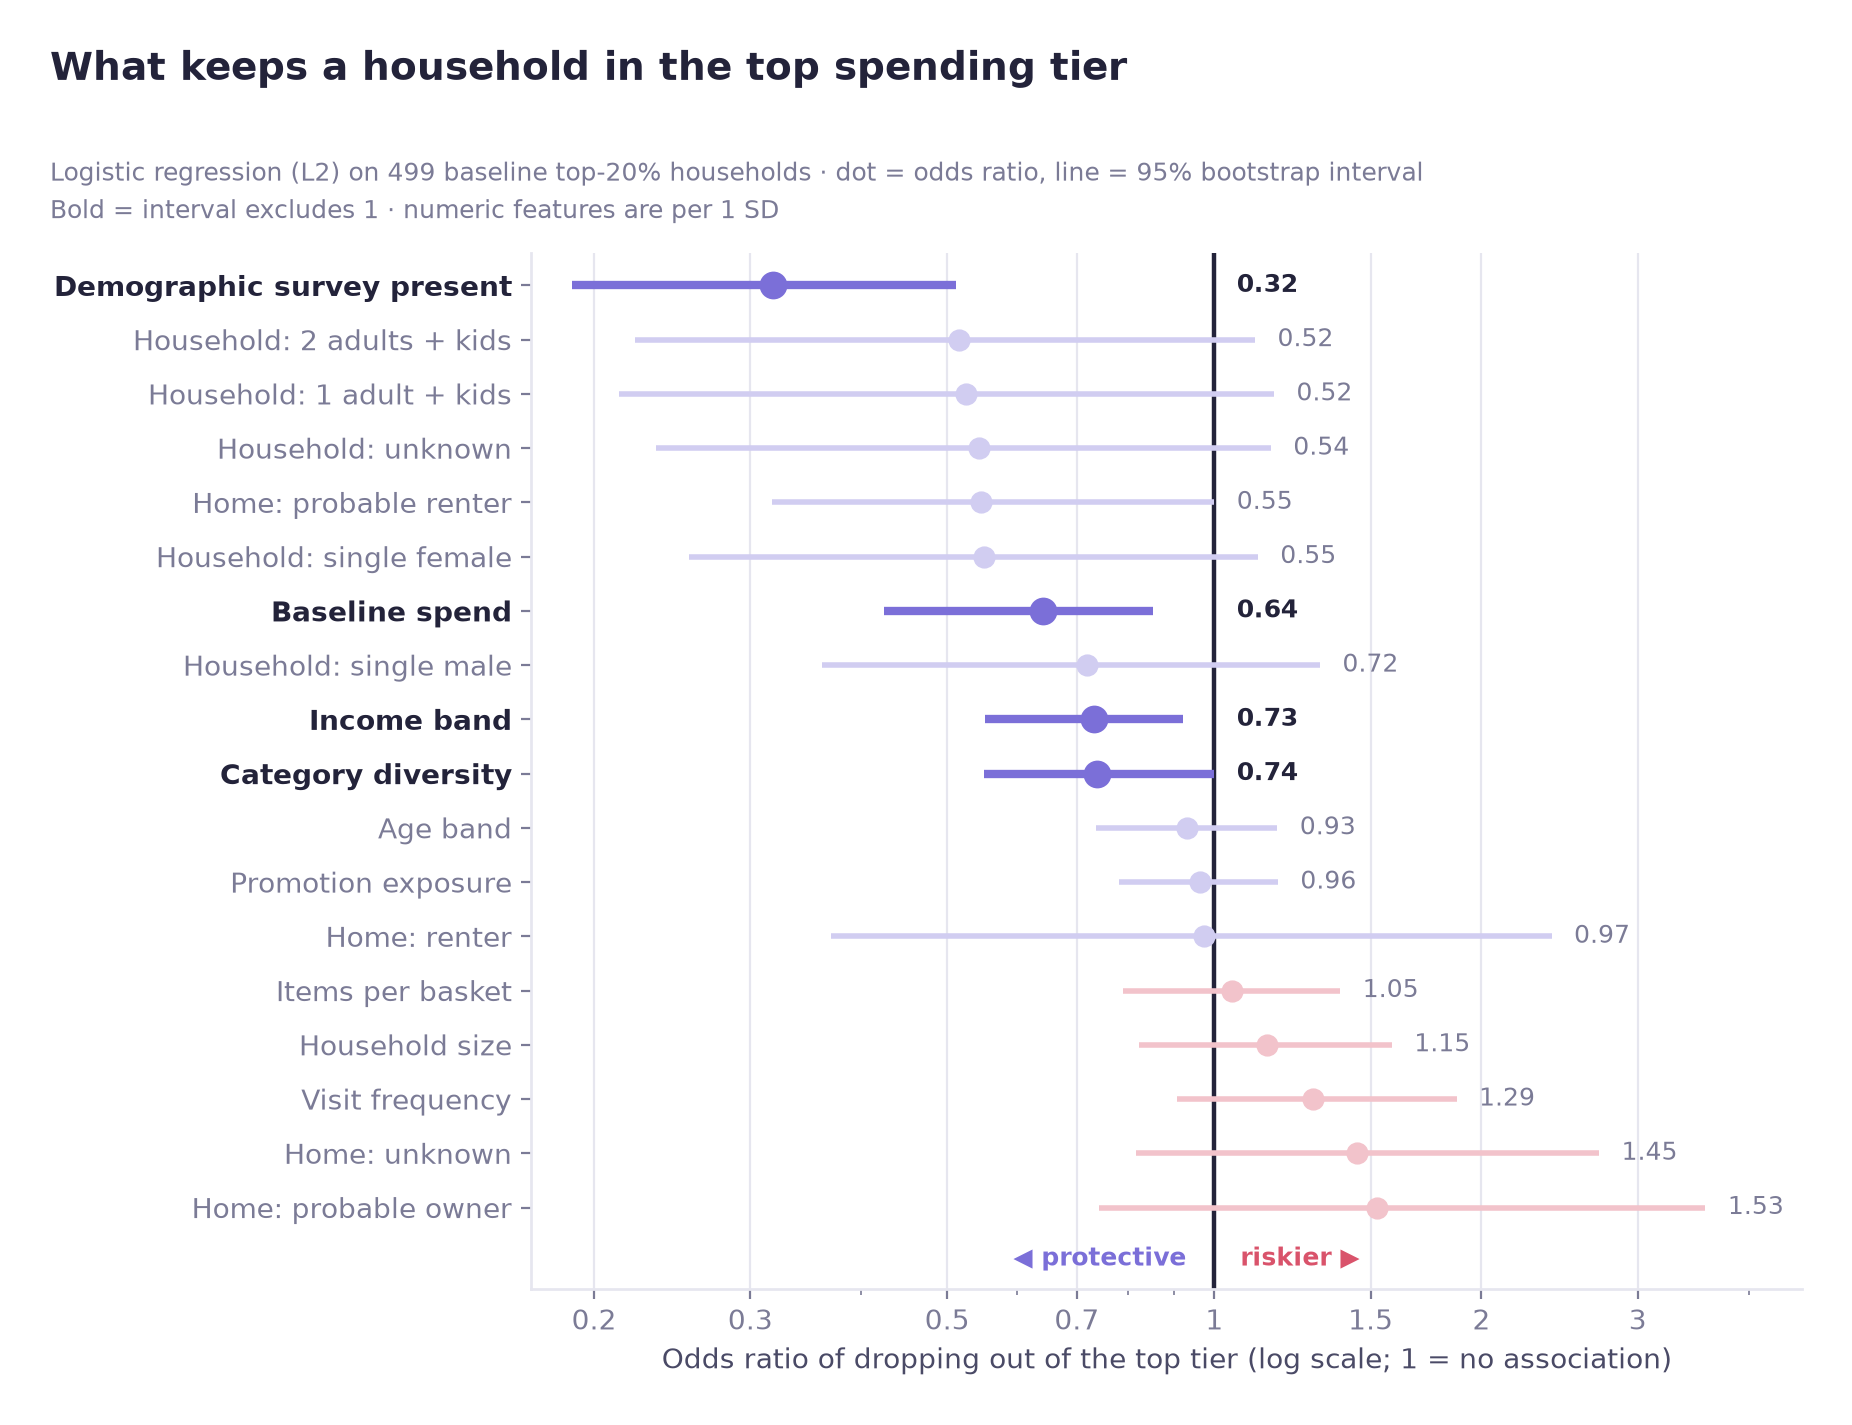
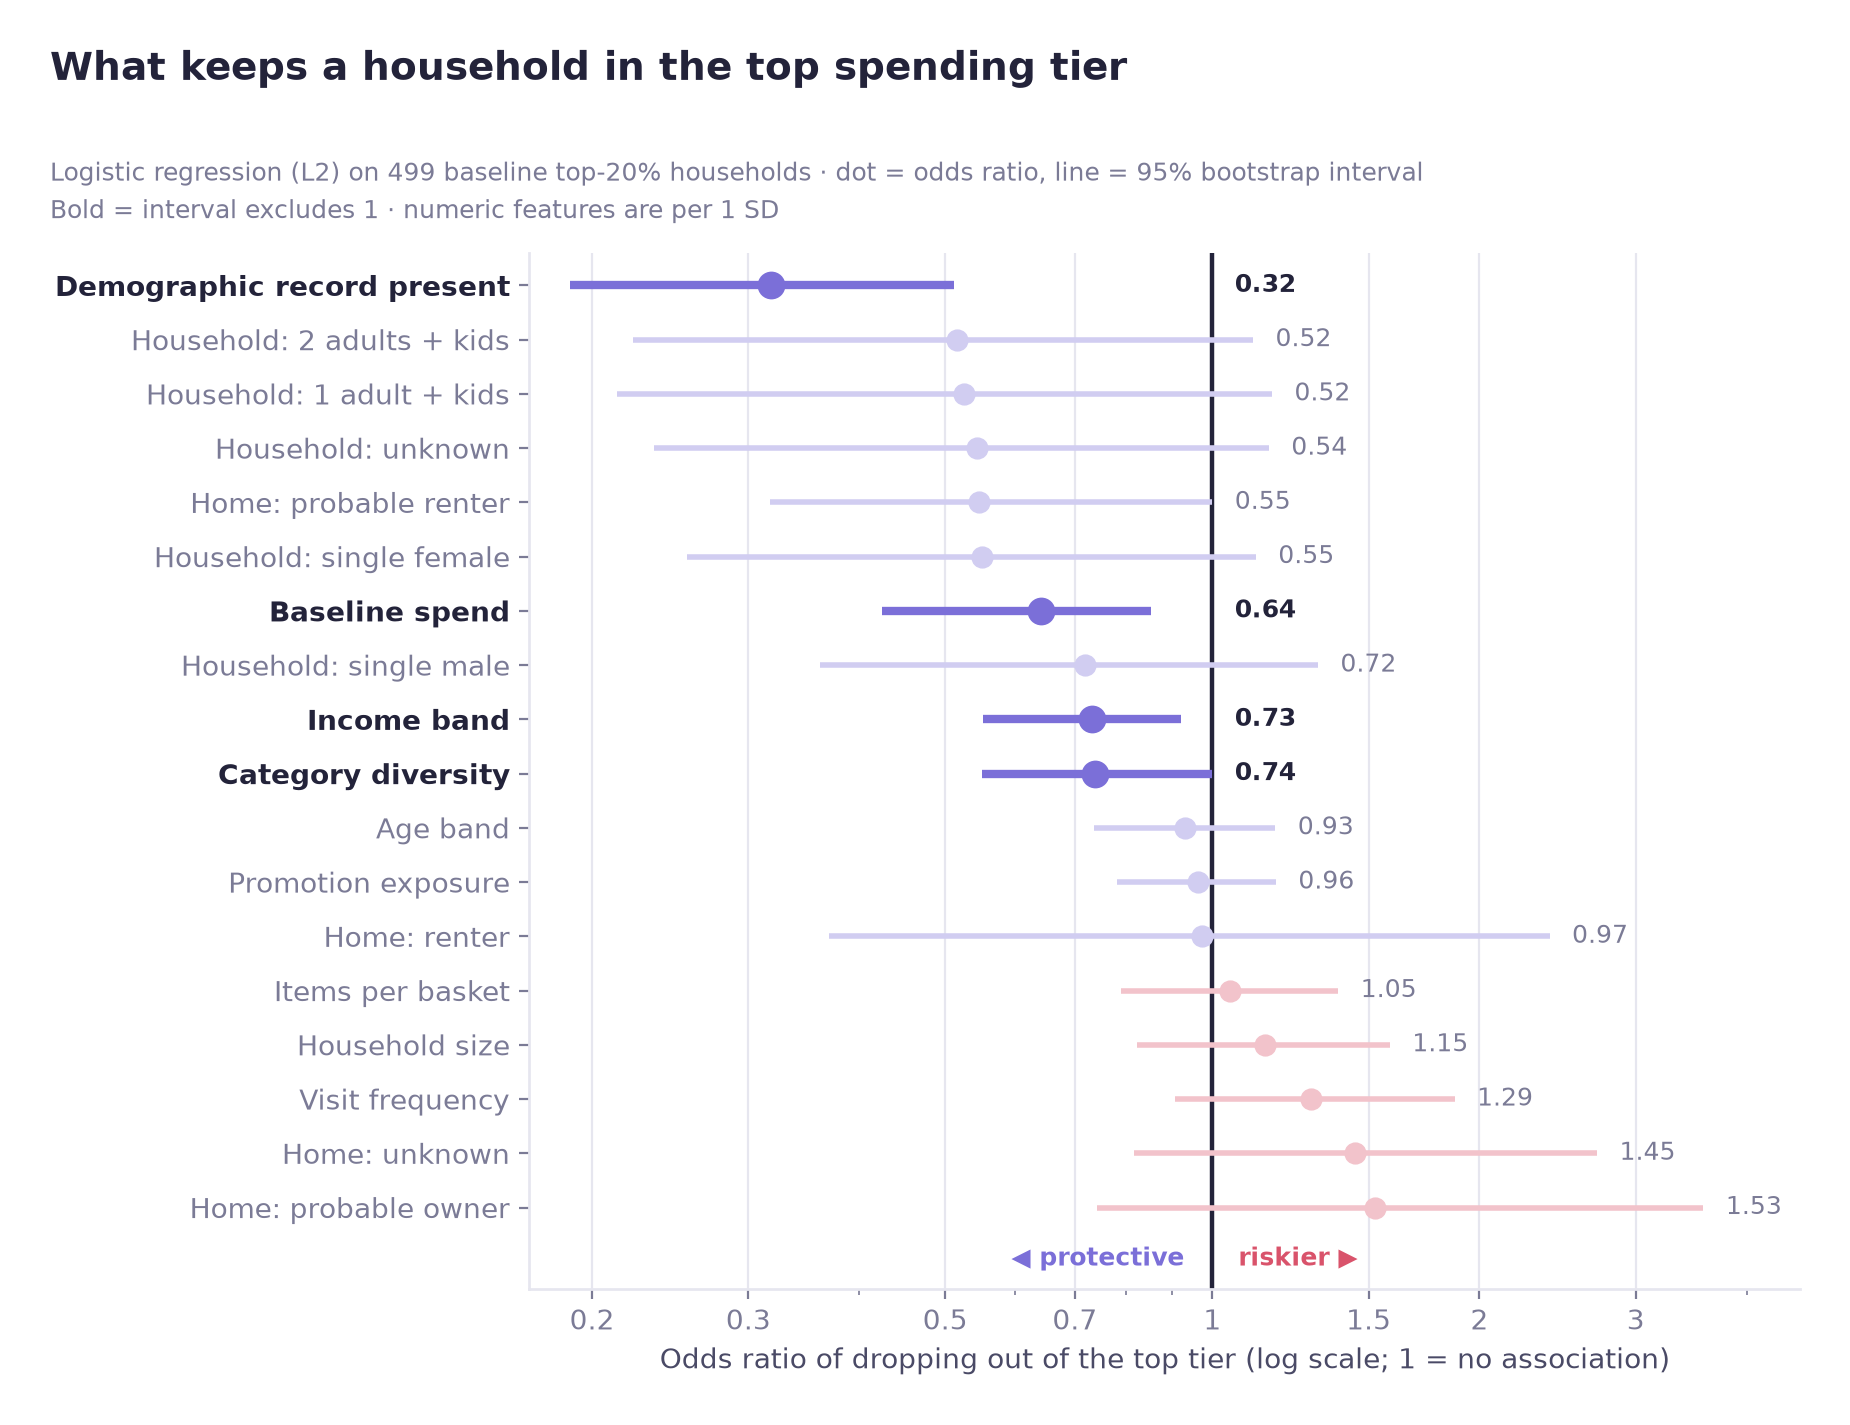
Align the Seoul and Case 1 pages with the has_demo definition and the corrected wording

diff --git a/projects/dunnhumby-customer/case1/index.html b/projects/dunnhumby-customer/case1/index.html
@@ -267,7 +267,7 @@
       </tbody>
     </table>
     </div>
-    <p class="small" style="margin-top:14px">Three related household-level tests (A–C) mean a <strong>Bonferroni correction</strong>: α = 0.05 / 3 ≈ 0.0167. All three clear that threshold, not the uncorrected 0.05. The existing-versus-new comparison in section 05-C is judged against a stricter threshold of α = 0.05 / 4 = 0.0125 (the threshold used in that notebook).</p>
+    <p class="small" style="margin-top:14px">Three related household-level tests (A–C) mean a <strong>Bonferroni correction</strong>: α = 0.05 / 3 ≈ 0.0167. All three clear that threshold, not the uncorrected 0.05. The existing-versus-new comparison in section 05-C is a separate test, reported below with its own p-value.</p>
   </div>
 
   <div class="grid2">
@@ -371,7 +371,7 @@
 
   <div class="card tight">
     <h4>A case of significant ≠ important</h4>
-    <p class="small">Testing the two cohorts directly returns <strong>p = 0.000928</strong> — below the stricter threshold of α = 0.0125 used for this comparison. But the effect size is <strong>rank-biserial 0.086</strong>, with a common-language figure of 0.457 against a null of 0.5. With 1,993 households the test reaches significance on a difference with a small effect size. Reporting only the p-value here would have been misleading.</p>
+    <p class="small">Testing the two cohorts directly returns <strong>p = 0.000928</strong> — significant at the 0.01 level (a separate test, not part of the A–C set). But the effect size is <strong>rank-biserial 0.086</strong>, with a common-language figure of 0.457 against a null of 0.5. With 1,993 households the test reaches significance on a difference with a small effect size. Reporting only the p-value here would have been misleading.</p>
   </div>
 </section>
 
@@ -415,8 +415,8 @@
   </div>
 
   <figure>
-    <img src="assets/odds-ratios.png" alt="Forest plot of odds ratios with 95% bootstrap intervals on a log scale: demographic record present 0.32 (labelled “Demographic survey present” in the image), baseline spend 0.64 and income band 0.73 have intervals that exclude 1; category diversity 0.74 excludes 1 only borderline (upper bound 0.998); visit frequency 1.29 and promotion exposure 0.96 do not.">
-    <figcaption>Bold markers are variables whose 95% bootstrap interval excludes 1 (demographic record present, baseline spend, income band and, borderline, category diversity with upper bound 0.998); faint markers have intervals that include 1. The image labels the first variable "Demographic survey present"; it is the has_demo flag, i.e. whether a demographic record exists. Numeric variables are per 1 SD and binary ones are 0 vs 1, so sizes are not directly comparable.</figcaption>
+    <img src="assets/odds-ratios.png" alt="Forest plot of odds ratios with 95% bootstrap intervals on a log scale: demographic record present 0.32, baseline spend 0.64 and income band 0.73 have intervals that exclude 1; category diversity 0.74 excludes 1 only borderline (upper bound 0.998); visit frequency 1.29 and promotion exposure 0.96 do not.">
+    <figcaption>Bold markers are variables whose 95% bootstrap interval excludes 1 (demographic record present, baseline spend, income band and, borderline, category diversity with upper bound 0.998); faint markers have intervals that include 1. The first variable is the has_demo flag: whether a demographic record exists. Numeric variables are per 1 SD and binary ones are 0 vs 1, so sizes are not directly comparable.</figcaption>
   </figure>
 
   <div class="grid2">

diff --git a/projects/seoul-closure-risk/index.html b/projects/seoul-closure-risk/index.html
@@ -116,7 +116,7 @@
     <p class="small"><strong>The model earns its place at the operating point, not on the leaderboard.</strong> Top-50 precision <span class="hl">0.780</span> against <span class="hl">0.380</span> for a store-count rule in the validation quarter — and the two lists overlap by only 4%, so 48 of the 50 flagged cells are ones the store-count rule does not list.</p>
   </div>
   <div class="card tight">
-    <p class="small"><strong>One result was measured and set aside:</strong> a 0.915 category rank correlation for predicted closures, not used as performance evidence; single-quarter rankings of the net-decline label turned out to be noisy (see the log).</p>
+    <p class="small"><strong>One result was measured and set aside:</strong> the closure-count model's 0.915 category rank correlation (10 categories, one validation quarter), not reported as performance evidence; single-quarter rankings of the net-decline label turned out to be noisy (see the log).</p>
   </div>
 
   <div class="callout" style="margin-top:30px">
@@ -313,7 +313,7 @@
         <tr><td class="num">V&#8209;02</td><td class="tl">Saying “we matched on store count” is not the same as the groups being comparable</td><td class="tl">Store count <strong>1.00 → 0.044</strong>; all four covariates clear |SMD| &lt; 0.1</td><td><span class="chip hold">balance passed</span></td></tr>
         <tr><td class="num">V&#8209;03</td><td class="tl">A mean can hide effects that differ across size bands</td><td class="tl">Woolf <strong>p &lt; .0001</strong> — clearly negative in three bands, zero-inclusive in two</td><td><span class="chip warn">not summarisable</span></td></tr>
         <tr><td class="num">V&#8209;04</td><td class="tl">“Bigger cells are riskier” might only mean “bigger cells have events more often”</td><td class="tl">Decomposed the label; the size dependence sits almost entirely in event frequency</td><td><span class="chip warn">label defect</span></td></tr>
-        <tr><td class="num">V&#8209;05</td><td class="tl">An early analysis showed a category rank correlation of 0.915 for predicted closures</td><td class="tl">Set aside as performance evidence. Separately, the net-decline label's single-quarter rankings are noisy (split-half 0.212 service category, 0.086 district, 0.035 district × category)</td><td><span class="chip rej">result discarded</span></td></tr>
+        <tr><td class="num">V&#8209;05</td><td class="tl">The closure-count model's category rank correlation was 0.915 (10 categories, one validation quarter, neighborhood cells)</td><td class="tl">Not reported as performance evidence: it rests on ten categories in a single quarter. Separately, the net-decline label's single-quarter rankings are noisy (split-half 0.212 service category, 0.086 district, 0.035 district × category)</td><td><span class="chip rej">result discarded</span></td></tr>
       </tbody>
     </table>
     </div>
